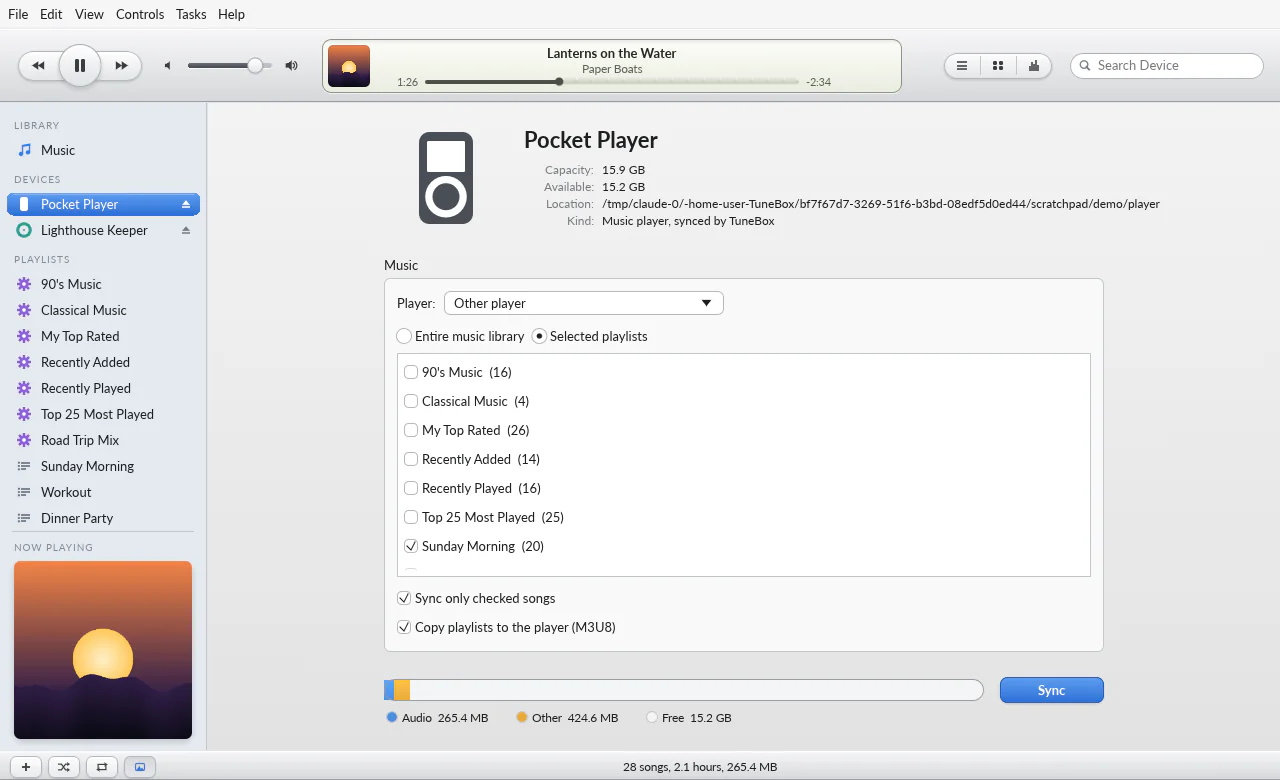
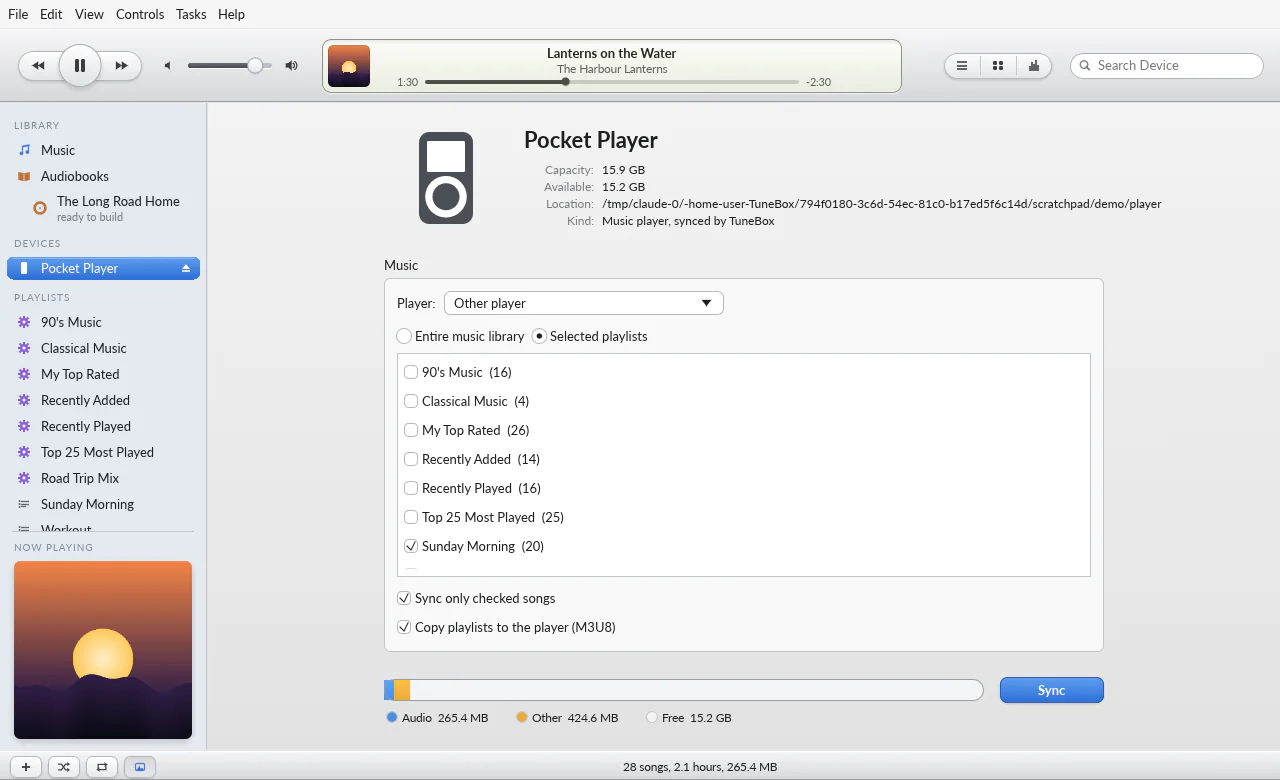
Audiobooks: header comma, status bar counts, screenshots in the docs
- Quiet fields are placed left-aligned instead of centred: egui keeps a text
  field at least 24 points wide, and a centred one-digit series number slid
  left over the comma before it.
- The status bar counts books in Audiobooks, and on the book page shows the
  book as it will be built (tracks, chapters, length) or the selection.
  `tunebox-cli list --kind audiobook` counts books too.
- Regenerated the screenshots (the sidebar now has Audiobooks) and added the
  audiobook ones to the README and docs/audiobooks.md.

Claude-Session: https://claude.ai/code/session_01GBVQLvSKqXwyEvzeBPCmnj

Changed region(s): [[0.0, 0.2154, 0.1562, 0.6769], [0.625, 0.2462, 0.9062, 0.2769], [0.4375, 0.0615, 0.5, 0.1231]]

diff --git a/crates/ui/src/panels/status_bar.rs b/crates/ui/src/panels/status_bar.rs
@@ -6,8 +6,10 @@ use crate::panels::{PanelContext, widgets};
 use crate::state::SourceItem;
 use crate::theme;
 use egui::{Align2, FontId, Ui, pos2};
+use std::time::Duration;
 use tunebox_engine::RepeatMode;
 use tunebox_engine::commands::CommandId;
+use tunebox_engine::model::audiobook::{TrackRef, seconds};
 use tunebox_engine::model::{format_clock, format_total_time};
 
 pub const HEIGHT: f32 = 30.0;
@@ -53,19 +55,45 @@ fn summary(cx: &PanelContext) -> String {
             .cd()
             .map(|cd| format!("{} songs, {}", cd.audio_numbers().len(), format_total_time(cd.toc.total_duration())))
             .unwrap_or_default(),
-        _ => {
-            let selected = cx.view.selected_tracks();
-            if selected.len() > 1 {
-                let summary = cx.session.summary(&selected);
-                format!(
-                    "{} of {} songs selected, {}",
-                    selected.len(),
-                    cx.view.summary().count,
-                    format_clock(summary.duration)
-                )
-            } else {
-                cx.view.summary().label()
-            }
-        }
+        SourceItem::Book => book_summary(cx),
+        SourceItem::Audiobooks => list_summary(cx, "book", "books"),
+        _ => list_summary(cx, "song", "songs"),
     }
+}
+
+/// The list's count and length, or the selection's when more than one is selected.
+fn list_summary(cx: &PanelContext, one: &str, many: &str) -> String {
+    let selected = cx.view.selected_tracks();
+    if selected.len() > 1 {
+        let summary = cx.session.summary(&selected);
+        format!("{} of {} {many} selected, {}", selected.len(), cx.view.summary().count, format_clock(summary.duration))
+    } else {
+        cx.view.summary().label_counting(one, many)
+    }
+}
+
+/// "26 tracks, 8 chapters, 1.6 hours": the book as it will be built, leaving out removed
+/// tracks; or the selected tracks' count and length.
+fn book_summary(cx: &PanelContext) -> String {
+    let Some(book) = cx.session.audiobook() else { return String::new() };
+    let length = |samples: u64| Duration::from_secs_f64(seconds(samples));
+    let selected = cx.view.book.selected();
+    if selected.len() > 1 {
+        let kept: Vec<TrackRef> = selected.iter().copied().filter(|t| book.is_kept(*t)).collect();
+        let samples = kept.iter().map(|t| book.trimmed_samples(*t)).sum();
+        let total = book.tracks().count();
+        return format!("{} of {total} tracks selected, {}", selected.len(), format_clock(length(samples)));
+    }
+    let tracks = book.tracks().filter(|(t, _)| book.is_kept(*t)).count();
+    let chapters = book.output_chapters().len();
+    format!(
+        "{}, {}, {}",
+        counted(tracks, "track", "tracks"),
+        counted(chapters, "chapter", "chapters"),
+        format_total_time(length(book.kept_samples()))
+    )
+}
+
+fn counted(count: usize, one: &str, many: &str) -> String {
+    format!("{count} {}", if count == 1 { one } else { many })
 }

diff --git a/apps/tunebox-cli/src/main.rs b/apps/tunebox-cli/src/main.rs
@@ -328,7 +328,8 @@ fn show(view: LibraryView<'_>, command: Command) -> Result<(), String> {
             if let Some(kind) = kind {
                 ids.retain(|id| view.library().track(*id).is_some_and(|t| t.kind == kind));
             }
-            print_tracks(view, &ids);
+            let (one, many) = if kind == Some(MediaKind::Audiobook) { ("book", "books") } else { ("song", "songs") };
+            print_tracks(view, &ids, one, many);
         }
         Command::Playlists => {
             for playlist in view.library().playlists() {
@@ -564,7 +565,8 @@ fn print_unplayable(view: LibraryView<'_>) {
     }
 }
 
-fn print_tracks(view: LibraryView<'_>, ids: &[TrackId]) {
+/// Prints the tracks, then their count (as `one` or `many`), length and size.
+fn print_tracks(view: LibraryView<'_>, ids: &[TrackId], one: &str, many: &str) {
     let columns = [Column::Name, Column::Time, Column::Artist, Column::Album, Column::Rating, Column::Plays];
     for id in ids {
         let Some(track) = view.track(*id) else { continue };
@@ -574,7 +576,7 @@ fn print_tracks(view: LibraryView<'_>, ids: &[TrackId]) {
             cells[0], cells[1], cells[2], cells[3], cells[4], cells[5]
         );
     }
-    println!("{}", view.summary(ids).label());
+    println!("{}", view.summary(ids).label_counting(one, many));
 }
 
 /// Ticks the session until its background work is done, printing progress.

diff --git a/crates/library/src/summary.rs b/crates/library/src/summary.rs
@@ -22,10 +22,15 @@ impl Summary {
 
     /// The status bar text, e.g. "12 songs, 42 minutes, 310.2 MB". Empty for no tracks.
     pub fn label(&self) -> String {
+        self.label_counting("song", "songs")
+    }
+
+    /// The status bar text counting the tracks as `one` or `many`: "3 books, 1.1 days, 240 KB".
+    pub fn label_counting(&self, one: &str, many: &str) -> String {
         if self.count == 0 {
             return String::new();
         }
-        let noun = if self.count == 1 { "song" } else { "songs" };
+        let noun = if self.count == 1 { one } else { many };
         format!(
             "{} {noun}, {}, {}",
             group_thousands(self.count),
@@ -56,6 +61,15 @@ mod tests {
         assert_eq!(group_thousands(7), "7");
         assert_eq!(group_thousands(1204), "1,204");
         assert_eq!(group_thousands(1_000_000), "1,000,000");
+    }
+
+    #[test]
+    fn counts_in_the_noun_given() {
+        let summary = Summary { count: 3, duration: std::time::Duration::from_secs(7200), bytes: 2048 };
+        assert!(summary.label().starts_with("3 songs, "), "{}", summary.label());
+        assert!(summary.label_counting("book", "books").starts_with("3 books, "));
+        let one = Summary { count: 1, ..summary };
+        assert!(one.label_counting("book", "books").starts_with("1 book, "));
     }
 
     #[test]

diff --git a/crates/ui/src/panels/book_header.rs b/crates/ui/src/panels/book_header.rs
@@ -147,9 +147,9 @@ fn meta_row(ui: &mut Ui, details: &mut BookDetails, at: egui::Pos2) -> bool {
     dot(ui, pos2(x + 7.0, at.y + 11.0));
     x += 14.0;
     changed |= field(ui, &mut x, &mut details.series, "Series");
-    // Painted once the fields are drawn, so the number's field does not cover it.
-    let comma_at = x;
-    x += ui.painter().layout_no_wrap(", ".to_owned(), font.clone(), theme::TEXT_MUTED).size().x;
+    // Into the room the field leaves for its cursor, so the comma sits against the name.
+    x -= 2.0;
+    words(ui, &mut x, ", ");
     let mut number = details.series_number.map(|n| n.to_string()).unwrap_or_default();
     if field(ui, &mut x, &mut number, "No.") {
         details.series_number = number.trim().parse().ok();
@@ -162,8 +162,6 @@ fn meta_row(ui: &mut Ui, details: &mut BookDetails, at: egui::Pos2) -> bool {
         details.year = year.trim().parse().ok();
         changed = true;
     }
-    let mut comma_x = comma_at;
-    words(ui, &mut comma_x, ",");
     changed
 }
 

diff --git a/crates/ui/src/panels/album_header.rs b/crates/ui/src/panels/album_header.rs
@@ -53,7 +53,11 @@ pub fn quiet_field(ui: &mut Ui, rect: Rect, value: &mut String, hint: &str, font
         .frame(egui::Frame::NONE)
         .margin(egui::Margin::ZERO)
         .align(Align2::LEFT_CENTER);
-    let response = ui.put(rect, edit);
+    // Left-aligned rather than `put`: egui keeps a text field at least 24 points wide, and
+    // `put` centres a widget wider than its rect, which would slide a short value (a series
+    // number) left over whatever is painted before it.
+    let layout = egui::Layout::left_to_right(egui::Align::Center);
+    let response = ui.scope_builder(egui::UiBuilder::new().max_rect(rect).layout(layout), |ui| ui.add(edit)).inner;
     if response.hovered() || response.has_focus() {
         let stroke = if response.has_focus() { theme::ACCENT } else { theme::BORDER };
         // Drawn a little outside the field, so the text stays in line with the rest of the

diff --git a/crates/model/src/audiobook/book.rs b/crates/model/src/audiobook/book.rs
@@ -392,6 +392,11 @@ impl Book {
         self.tracks().filter(|(r, _)| self.is_kept(*r)).map(|(r, t)| self.trimmed_length(r, t)).sum()
     }
 
+    /// How long `track` is once trimmed, in samples; 0 for a track not in the book's discs.
+    pub fn trimmed_samples(&self, track: TrackRef) -> u64 {
+        self.track(track).map_or(0, |data| self.trimmed_length(track, data))
+    }
+
     /// The length of `track` once trimmed.
     pub(crate) fn trimmed_length(&self, track: TrackRef, data: &BookTrack) -> u64 {
         let trim = self.edits.trims.get(&track).copied().unwrap_or_default();

diff --git a/docs/audiobooks.md b/docs/audiobooks.md
@@ -33,6 +33,10 @@ built](#what-phase-2-built) say so.
 
 The book is added to the library. Only then is the staged rip deleted.
 
+<img src="images/tunebox-audiobook-start.webp" alt="Import as Audiobook: the book's title, author, narrator, series and description">
+
+<img src="images/tunebox-audiobook-page.webp" alt="The book page: two discs ripped, the tracks grouped into chapters, a chapter running from disc 1 into disc 2, an announcement removed and two suggestions">
+
 ### Why ripping and building are separate
 
 The user's sketch builds the output as the discs go in. This plan rips every disc to lossless
@@ -100,6 +104,8 @@ while TuneBox asks for the next one, nothing is edited (see [After each disc](#a
 Nothing touches the staged audio: the edits are applied when the book is built, so each one
 can be undone until then.
 
+<img src="images/tunebox-audiobook-chapters.webp" alt="Chapters folded to one row each, one being renamed">
+
 ### Chapters
 
 Each disc starts as one chapter. From there the listener splits and joins: **Split Chapter
@@ -142,6 +148,8 @@ staged track:
   instead.
 
 Trimming needs the track's audio, so it is offered once the track is ripped.
+
+<img src="images/tunebox-audiobook-trim.webp" alt="The trim editor: the start and end of a track, the end cut at the pause before a possible announcement">
 
 ### Suggestions
 
@@ -187,6 +195,8 @@ without the mouse. The keys below work on the book page while no name is being e
 elsewhere the single letters do nothing. They come from the command table, like every
 shortcut, and are listed in the Audiobook menu, which appears while the book page is shown.
 **?** shows them all on one sheet.
+
+<img src="images/tunebox-audiobook-shortcuts.webp" alt="The sheet of the book page's shortcuts">
 
 | Key | Does |
 |---|---|
@@ -254,6 +264,8 @@ on their own.
 
 When a disc is ripped and ejected, a dialog says so and names the next disc:
 
+<img src="images/tunebox-audiobook-insert-disc.webp" alt="Disc 2 is ripped. Insert disc 3, with That Was the Last Disc and Not Now">
+
 > Disc 2 is ripped and ejected.
 > **Insert disc 3**
 > Its tracks appear as soon as it is in.
@@ -297,6 +309,8 @@ completion.
 
 Chapter start times come from [Chapter times](#chapter-times). The build refuses to start
 while a kept track has not been ripped, naming the disc and tracks.
+
+<img src="images/tunebox-audiobook-build.webp" alt="Build Audiobook: one .m4b with chapters or a file per chapter, AAC at 64 kbit/s mono">
 
 ### What craft-libs provides
 
@@ -461,6 +475,8 @@ disc as music after all.
 
 Built books do not go into Music. The sidebar's LIBRARY heading gets a second category under
 Music:
+
+<img src="images/tunebox-audiobooks.webp" alt="The Audiobooks list: three built books, with author and narrator columns, and a book in progress in the sidebar">
 
 ```text
 LIBRARY

diff --git a/README.md b/README.md
@@ -35,6 +35,10 @@
   time and runs in a sandbox ([docs/visualizer-plugins.md](docs/visualizer-plugins.md)).
 - **CDs.** See the disc, fetch its track names from MusicBrainz (only when you ask), edit them
   and import to FLAC, WAV or AIFF.
+- **Audiobooks from CDs.** Rip a book disc by disc, then group its tracks into chapters,
+  leave out the "please insert disc 2" announcements and trim their seconds off, with a key
+  for every edit, and build one chaptered `.m4b` or a file per chapter. Built books are listed
+  under Audiobooks, apart from your music. See [docs/audiobooks.md](docs/audiobooks.md).
 - **Players.** Any player that mounts as a drive (Rockbox, FiiO, Sony, Shanling…), and on Linux
   and macOS players that connect over MTP (Android-based players and phones, recent Walkmans;
   so far tested only against a simulated device): pick the whole library or chosen playlists,
@@ -66,6 +70,14 @@
 <tr>
 <td align="center"><sub>Importing a CD</sub></td>
 <td align="center"><sub>Syncing a player</sub></td>
+</tr>
+<tr>
+<td width="50%"><img src="docs/images/tunebox-audiobook-page.webp" alt="An audiobook ripped from two CDs, its tracks grouped into chapters"></td>
+<td width="50%"><img src="docs/images/tunebox-audiobook-trim.webp" alt="Trimming an announcement off the end of a track"></td>
+</tr>
+<tr>
+<td align="center"><sub>An audiobook from CDs, in chapters</sub></td>
+<td align="center"><sub>Trimming off an announcement</sub></td>
 </tr>
 <tr>
 <td width="50%"><img src="docs/images/tunebox-smart-editor.webp" alt="The smart playlist editor"></td>
